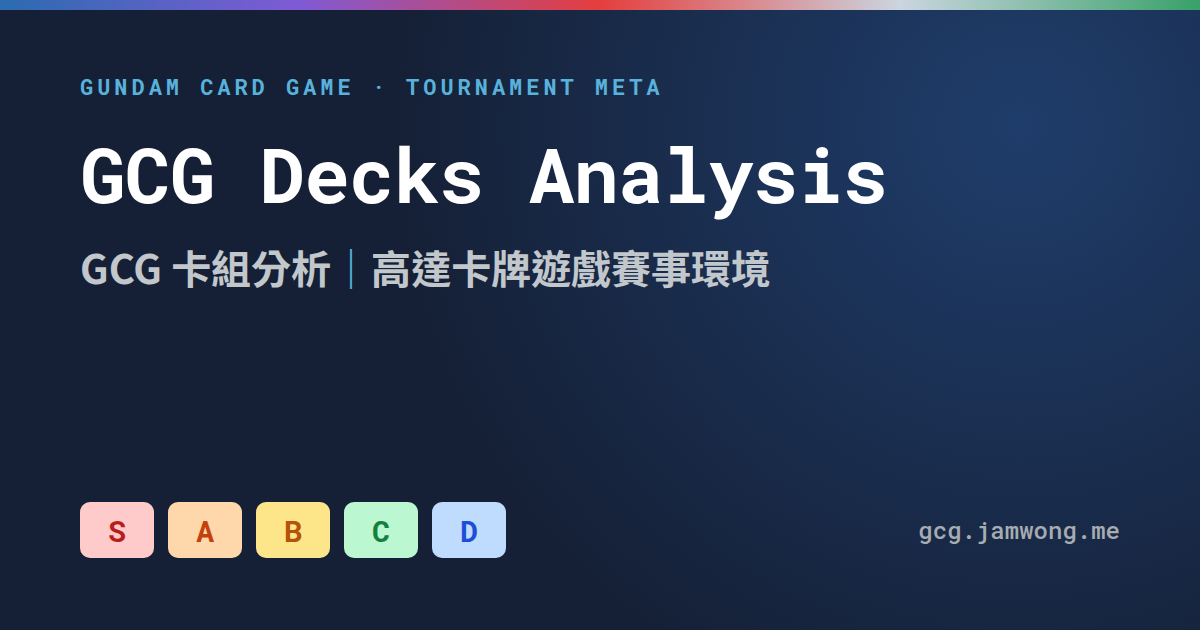
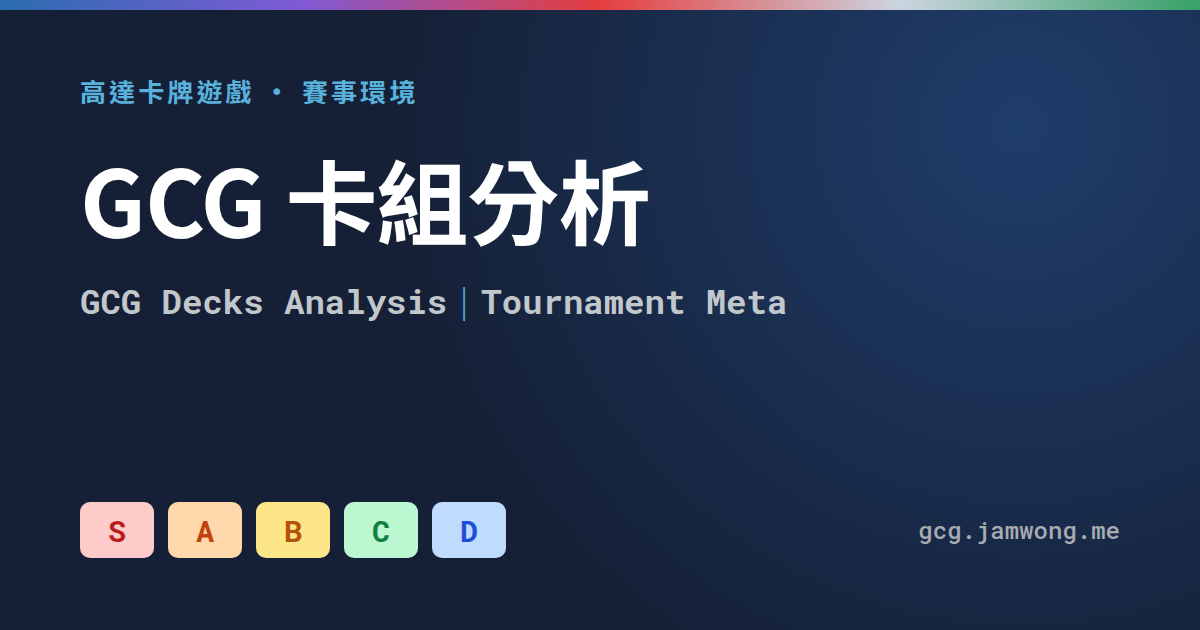
feat(i18n): Hong Kong Chinese first
- Every new visitor starts in zh-HK; English only once picked
- index.html defaults (title, description, OG/Twitter, html lang) are
  zh-HK, so link previews show Chinese; the inline script switches the
  title early for visitors who chose English
- Share image leads with GCG 卡組分析, English as the secondary line

Changed region(s): [[0.0617, 0.2111, 0.74, 0.5127], [0.0617, 0.1206, 0.555, 0.181]]

diff --git a/index.html b/index.html
@@ -1,25 +1,25 @@
 <!doctype html>
-<html lang="en">
+<html lang="zh-Hant-HK">
   <head>
     <meta charset="UTF-8" />
     <link rel="icon" type="image/x-icon" href="/favicon.ico" />
     <link rel="icon" type="image/png" sizes="256x256" href="/favicon.png" />
     <meta name="viewport" content="width=device-width, initial-scale=1.0" />
-    <title>GCG Decks Analysis · Gundam Card Game Tournament Meta</title>
-    <!-- English defaults for crawlers and link previews; useHeadMeta replaces them per page and language -->
+    <title>GCG 卡組分析｜高達卡牌遊戲賽事環境</title>
+    <!-- Hong Kong Chinese defaults for crawlers and link previews; useHeadMeta replaces them per page and language -->
     <meta
       name="description"
-      content="Gundam Card Game tournament meta: which decks are winning, the cards they run and how the meta shifts each series, built from official results."
+      content="高達卡牌遊戲（GUNDAM CARD GAME）賽事環境分析：哪些卡組最常勝出、用甚麼卡，以及每個系列的環境變化，全部根據官方賽果整理。"
     />
     <meta property="og:type" content="website" />
-    <meta property="og:site_name" content="GCG Decks Analysis" />
-    <meta property="og:title" content="GCG Decks Analysis · Gundam Card Game Tournament Meta" />
+    <meta property="og:site_name" content="GCG 卡組分析" />
+    <meta property="og:title" content="GCG 卡組分析｜高達卡牌遊戲賽事環境" />
     <meta
       property="og:description"
-      content="Gundam Card Game tournament meta: which decks are winning, the cards they run and how the meta shifts each series, built from official results."
+      content="高達卡牌遊戲（GUNDAM CARD GAME）賽事環境分析：哪些卡組最常勝出、用甚麼卡，以及每個系列的環境變化，全部根據官方賽果整理。"
     />
-    <meta property="og:locale" content="en_US" />
-    <meta property="og:locale:alternate" content="zh_HK" />
+    <meta property="og:locale" content="zh_HK" />
+    <meta property="og:locale:alternate" content="en_US" />
     <meta property="og:url" content="%VITE_SITE_URL%/" />
     <meta property="og:image" content="%VITE_SITE_URL%/og-image.png" />
     <meta property="og:image:type" content="image/png" />
@@ -27,13 +27,13 @@
     <meta property="og:image:height" content="630" />
     <meta
       property="og:image:alt"
-      content="GCG Decks Analysis: Gundam Card Game tournament meta, tier list from S to D"
+      content="GCG 卡組分析：高達卡牌遊戲賽事環境，牌型由 S 到 D 分級"
     />
     <meta name="twitter:card" content="summary_large_image" />
-    <meta name="twitter:title" content="GCG Decks Analysis · Gundam Card Game Tournament Meta" />
+    <meta name="twitter:title" content="GCG 卡組分析｜高達卡牌遊戲賽事環境" />
     <meta
       name="twitter:description"
-      content="Gundam Card Game tournament meta: which decks are winning, the cards they run and how the meta shifts each series, built from official results."
+      content="高達卡牌遊戲（GUNDAM CARD GAME）賽事環境分析：哪些卡組最常勝出、用甚麼卡，以及每個系列的環境變化，全部根據官方賽果整理。"
     />
     <meta name="twitter:image" content="%VITE_SITE_URL%/og-image.png" />
     <script>
@@ -41,11 +41,9 @@
         document.documentElement.classList.add('dark')
       }
       try {
-        var lang =
-          localStorage.getItem('lang') || (/^zh/i.test(navigator.language) ? 'zh-HK' : 'en')
-        if (lang === 'zh-HK') {
-          document.documentElement.lang = 'zh-Hant-HK'
-          document.title = 'GCG 卡組分析｜高達卡牌遊戲賽事環境'
+        if (localStorage.getItem('lang') === 'en') {
+          document.documentElement.lang = 'en'
+          document.title = 'GCG Decks Analysis · Gundam Card Game Tournament Meta'
         }
       } catch (e) {}
     </script>

diff --git a/scripts/og/og-image.html b/scripts/og/og-image.html
@@ -1,7 +1,7 @@
 <!doctype html>
 <!-- Source for public/og-image.png (1200×630 link preview). Regenerate with
      `node scripts/og/render-og-image.mjs` after editing -->
-<html lang="en">
+<html lang="zh-Hant-HK">
   <head>
     <meta charset="UTF-8" />
     <link
@@ -24,27 +24,28 @@
         position: relative;
       }
       .eyebrow {
-        font-size: 22px;
-        letter-spacing: 0.18em;
+        font-family: 'Noto Sans TC', sans-serif;
+        font-size: 26px;
+        letter-spacing: 0.12em;
         color: #58b2dc;
         font-weight: 700;
       }
       h1 {
+        font-family: 'Noto Sans TC', sans-serif;
         margin-top: 22px;
-        font-size: 76px;
+        font-size: 92px;
         font-weight: 700;
         letter-spacing: -0.01em;
         color: #fff;
       }
-      .zh {
+      .sub {
         display: flex;
         margin-top: 14px;
-        font-family: 'Noto Sans TC', sans-serif;
-        font-size: 40px;
+        font-size: 34px;
         font-weight: 700;
         color: #c2c7cb;
       }
-      .zh span {
+      .sub span {
         color: #58b2dc;
       }
       .tiers {
@@ -102,12 +103,12 @@
   </head>
   <body>
     <div class="bar"></div>
-    <p class="eyebrow">GUNDAM CARD GAME · TOURNAMENT META</p>
-    <h1>GCG Decks Analysis</h1>
-    <p class="zh">
-      GCG 卡組分析
+    <p class="eyebrow">高達卡牌遊戲 · 賽事環境</p>
+    <h1>GCG 卡組分析</h1>
+    <p class="sub">
+      GCG Decks Analysis
       <span>｜</span>
-      高達卡牌遊戲賽事環境
+      Tournament Meta
     </p>
     <div class="tiers">
       <div class="pill s">S</div>

diff --git a/src/i18n/index.js b/src/i18n/index.js
@@ -15,9 +15,10 @@ function initialLocale() {
       return saved
     }
   } catch {
-    // storage blocked: fall back to the browser language
+    // storage blocked: use the default
   }
-  return /^zh/i.test(navigator.language) ? 'zh-HK' : 'en'
+  // Hong Kong Chinese first: English only once a visitor picks it
+  return 'zh-HK'
 }
 
 export const i18n = createI18n({

diff --git a/AGENTS.md b/AGENTS.md
@@ -82,14 +82,14 @@ source ~/.nvm/nvm.sh && nvm use
 
 ## i18n (English / 繁中 zh-HK)
 
-- `vue-i18n` (Composition API). Instance in `src/i18n/index.js`; locale saved in localStorage key `lang` (defaults to `zh-HK` for any `zh*` browser language), toggled by `UiLangToggle`
+- `vue-i18n` (Composition API). Instance in `src/i18n/index.js`; locale saved in localStorage key `lang` (defaults to `zh-HK` for every visitor; English only once picked), toggled by `UiLangToggle`
 - Messages live in `src/locales/<namespace>.js`, each holding both languages: `export default { en: { ... }, 'zh-HK': { ... } }` → `t('<namespace>.key')`. Keep the key sets identical in both languages
 - Templates use `$t()` / `<i18n-t>`; `<script setup>` uses `useI18n()` (auto-imported); plain JS uses `translate()` from `useLocale.js`
 - Data keys stay English (`'Blue'`, `'UNIT'`, `'Red+White'`); display them with `colorName()`, `cardTypeName()`, `comboName()`
 - Text built in JS must be in a `computed` (or called from the template) so it follows a language switch
 - Chinese copy is Hong Kong usage (卡組, 按, 鼠標, 甚麼); follow the glossary at the top of `src/locales/common.js`
 - Card, archetype and series names are data and stay untranslated
-- `<title>` and meta/OG description per route come from `src/locales/head.js` (keyed by route name), applied by `useHeadMeta()` in `App.vue`; `index.html` holds the English defaults for crawlers. A new route needs a `head.<route-name>` entry in both languages
+- `<title>` and meta/OG description per route come from `src/locales/head.js` (keyed by route name), applied by `useHeadMeta()` in `App.vue`; `index.html` holds the zh-HK defaults for crawlers and link previews. A new route needs a `head.<route-name>` entry in both languages
 - Open Graph / Twitter tags use absolute URLs from `VITE_SITE_URL` (defaults to `https://gcg.jamwong.me` in `vite.config.js`). The share image `public/og-image.png` is rendered from `scripts/og/og-image.html` with `node scripts/og/render-og-image.mjs`
 
 ## Data pipeline
